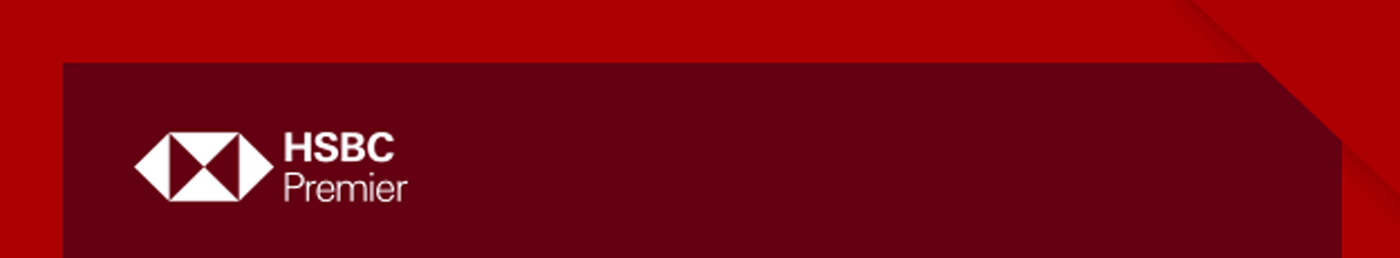
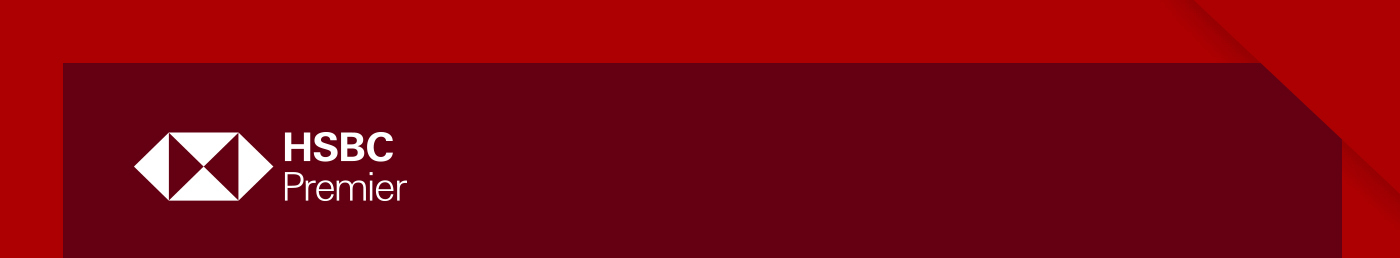
fix

diff --git a/source/index_vn.html b/source/index_vn.html
@@ -53,23 +53,16 @@
 						  <tr>
                             <td style="padding: 0; margin: 0; border: none; line-height: 1.3; font-size: 16px; font-family: Arial, Helvetica, sans-serif !important;">&nbsp;</td>
                           </tr>
+						  <tr>
+						    <td bgcolor="#640012" align="center" valign="top" style="padding: 0; margin: 0; border: none; line-height: 1.3; font-size: 16px; font-family: Arial, Helvetica, sans-serif !important; color: #FFFFFF"><strong>Trân trọng,</strong><br />
+<strong>HSBC Premier</strong></td>
+					      </tr>
                         </table></td>
 						<td bgcolor="#640012" width="28"><img src="image/chs_img_square.png" width="28" height="56" alt="" style="display: block"/></td>
                       <td width="29" bgcolor="#ac0002"><img src="image/chs_img_square.png" width="29" height="56" alt="" style="display: block"/></td>
                     </tr>
                   </table></td>
               </tr>
-			  <tr>
-			    <td style="padding: 0; margin: 0; border: none; line-height: 1.3; font-size: 16px; font-family: Arial, Helvetica, sans-serif !important;"><table width="100%" border="0" cellspacing="0" cellpadding="0" style="margin: 0; padding: 0; border: none; font-family: Arial, Helvetica, sans-serif !important; font-size: 16px; line-height: 1.3; color: #000000;">
-					<tr>
-						<td bgcolor="#ac0002" width="31"><img src="image/chs_img_square.png" width="31" height="28" alt="" style="display: block"/></td>
-						<td bgcolor="#640012" width="28"><img src="image/chs_img_square.png" width="154" height="28" alt="" style="display: block"/></td>
-						<td bgcolor="#640012" align="center" valign="top" style="padding: 0; margin: 0; border: none; line-height: 1.3; font-size: 16px; font-family: Arial, Helvetica, sans-serif !important; color: #FFFFFF"><strong>Trân trọng,</strong><br />
-<strong>HSBC Premier</strong></td>
-						<td bgcolor="#ac0002" width="185"><img src="image/chs_box_2.jpg" width="185" height="auto" alt="" style="display: block"/></td>
-					</tr>
-					</table></td>
-		      </tr>
 			  <tr>
                 <td style="padding: 0; margin: 0; border: none; line-height: 1.3; font-size: 16px; font-family: Arial, Helvetica, sans-serif !important;"><img src="image/chs_box_3.jpg" width="700" height="auto" alt="" style="display: block" /></td>
               </tr>

diff --git a/source/index_en.html b/source/index_en.html
@@ -53,23 +53,16 @@
 						  <tr>
                             <td style="padding: 0; margin: 0; border: none; line-height: 1.3; font-size: 16px; font-family: Arial, Helvetica, sans-serif !important;">&nbsp;</td>
                           </tr>
+						  <tr>
+						    <td bgcolor="#640012" align="center" valign="top" style="padding: 0; margin: 0; border: none; line-height: 1.3; font-size: 16px; font-family: Arial, Helvetica, sans-serif !important; color: #FFFFFF"><strong>Sincerely,</strong><br />
+<strong>HSBC Premier</strong></td>
+					      </tr>
                         </table></td>
 						<td bgcolor="#640012" width="28"><img src="image/chs_img_square.png" width="28" height="56" alt="" style="display: block"/></td>
                       <td width="29" bgcolor="#ac0002"><img src="image/chs_img_square.png" width="29" height="56" alt="" style="display: block"/></td>
                     </tr>
                   </table></td>
               </tr>
-			  <tr>
-			    <td style="padding: 0; margin: 0; border: none; line-height: 1.3; font-size: 16px; font-family: Arial, Helvetica, sans-serif !important;"><table width="100%" border="0" cellspacing="0" cellpadding="0" style="margin: 0; padding: 0; border: none; font-family: Arial, Helvetica, sans-serif !important; font-size: 16px; line-height: 1.3; color: #000000;">
-					<tr>
-						<td bgcolor="#ac0002" width="31"><img src="image/chs_img_square.png" width="31" height="28" alt="" style="display: block"/></td>
-						<td bgcolor="#640012" width="28"><img src="image/chs_img_square.png" width="154" height="28" alt="" style="display: block"/></td>
-						<td bgcolor="#640012" align="center" valign="top" style="padding: 0; margin: 0; border: none; line-height: 1.3; font-size: 16px; font-family: Arial, Helvetica, sans-serif !important; color: #FFFFFF"><strong>Sincerely,</strong><br />
-<strong>HSBC Premier</strong></td>
-						<td bgcolor="#ac0002" width="185"><img src="image/chs_box_2.jpg" width="185" height="auto" alt="" style="display: block"/></td>
-					</tr>
-					</table></td>
-		      </tr>
 			  <tr>
                 <td style="padding: 0; margin: 0; border: none; line-height: 1.3; font-size: 16px; font-family: Arial, Helvetica, sans-serif !important;"><img src="image/chs_box_3.jpg" width="700" height="auto" alt="" style="display: block" /></td>
               </tr>
